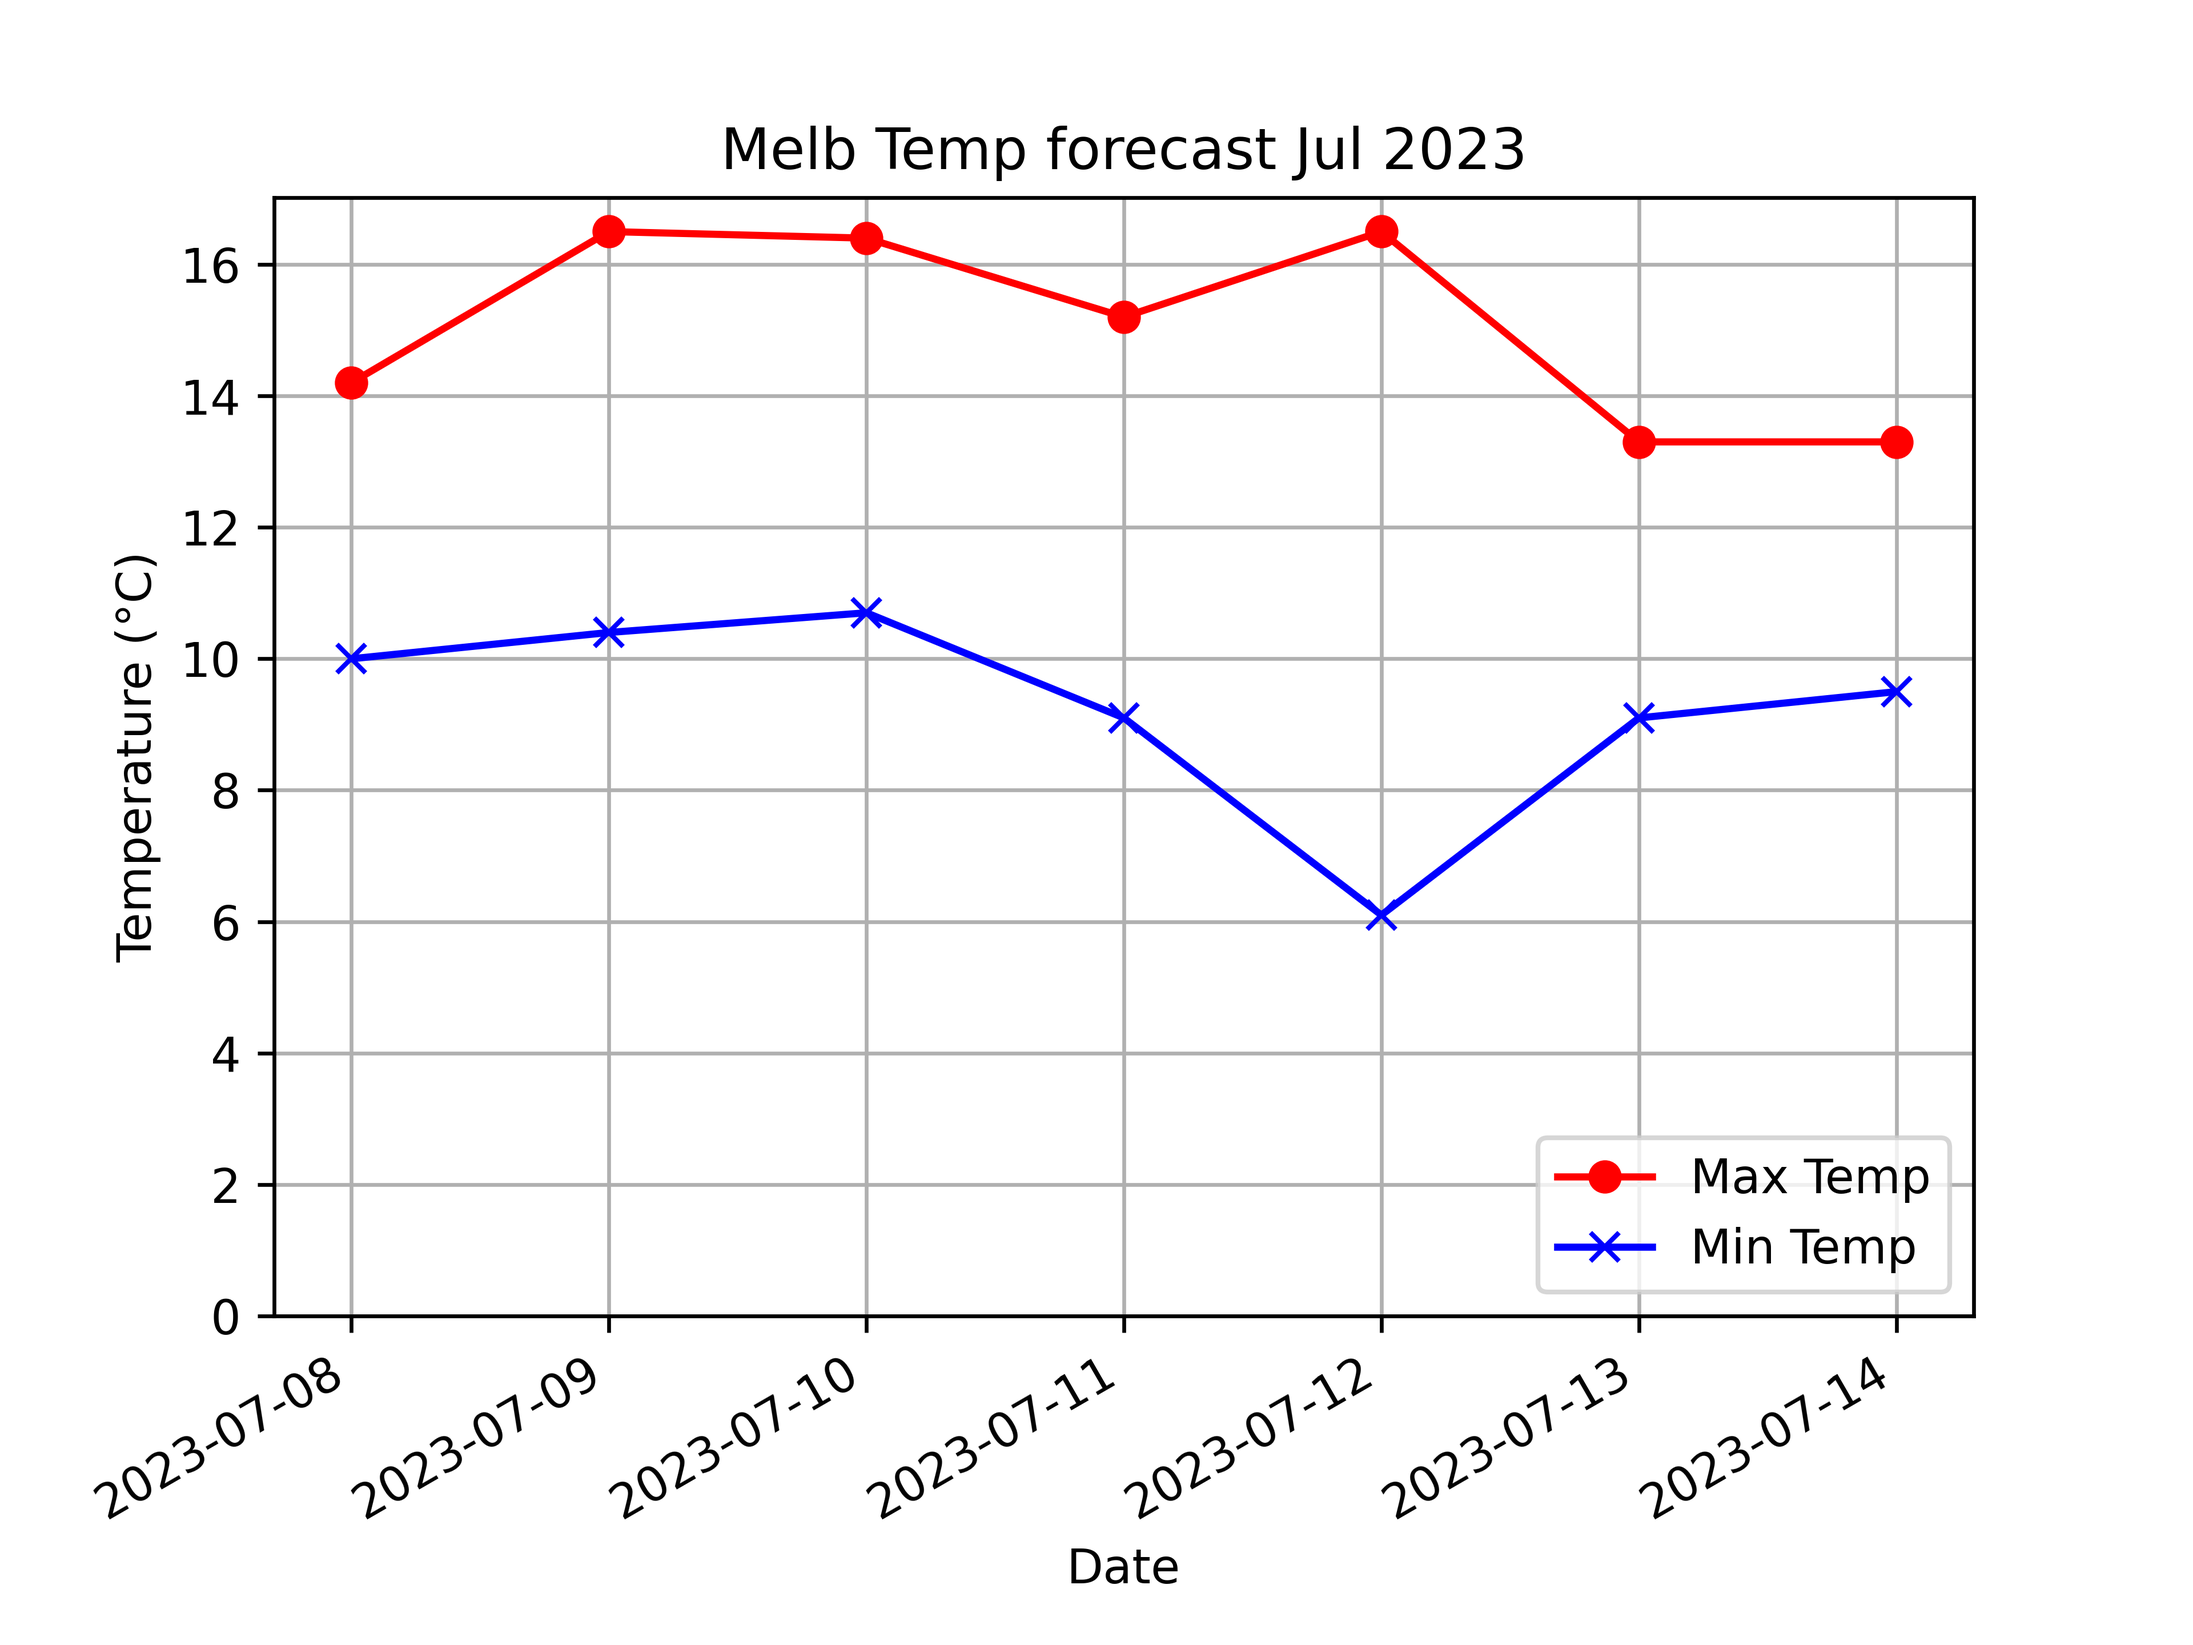
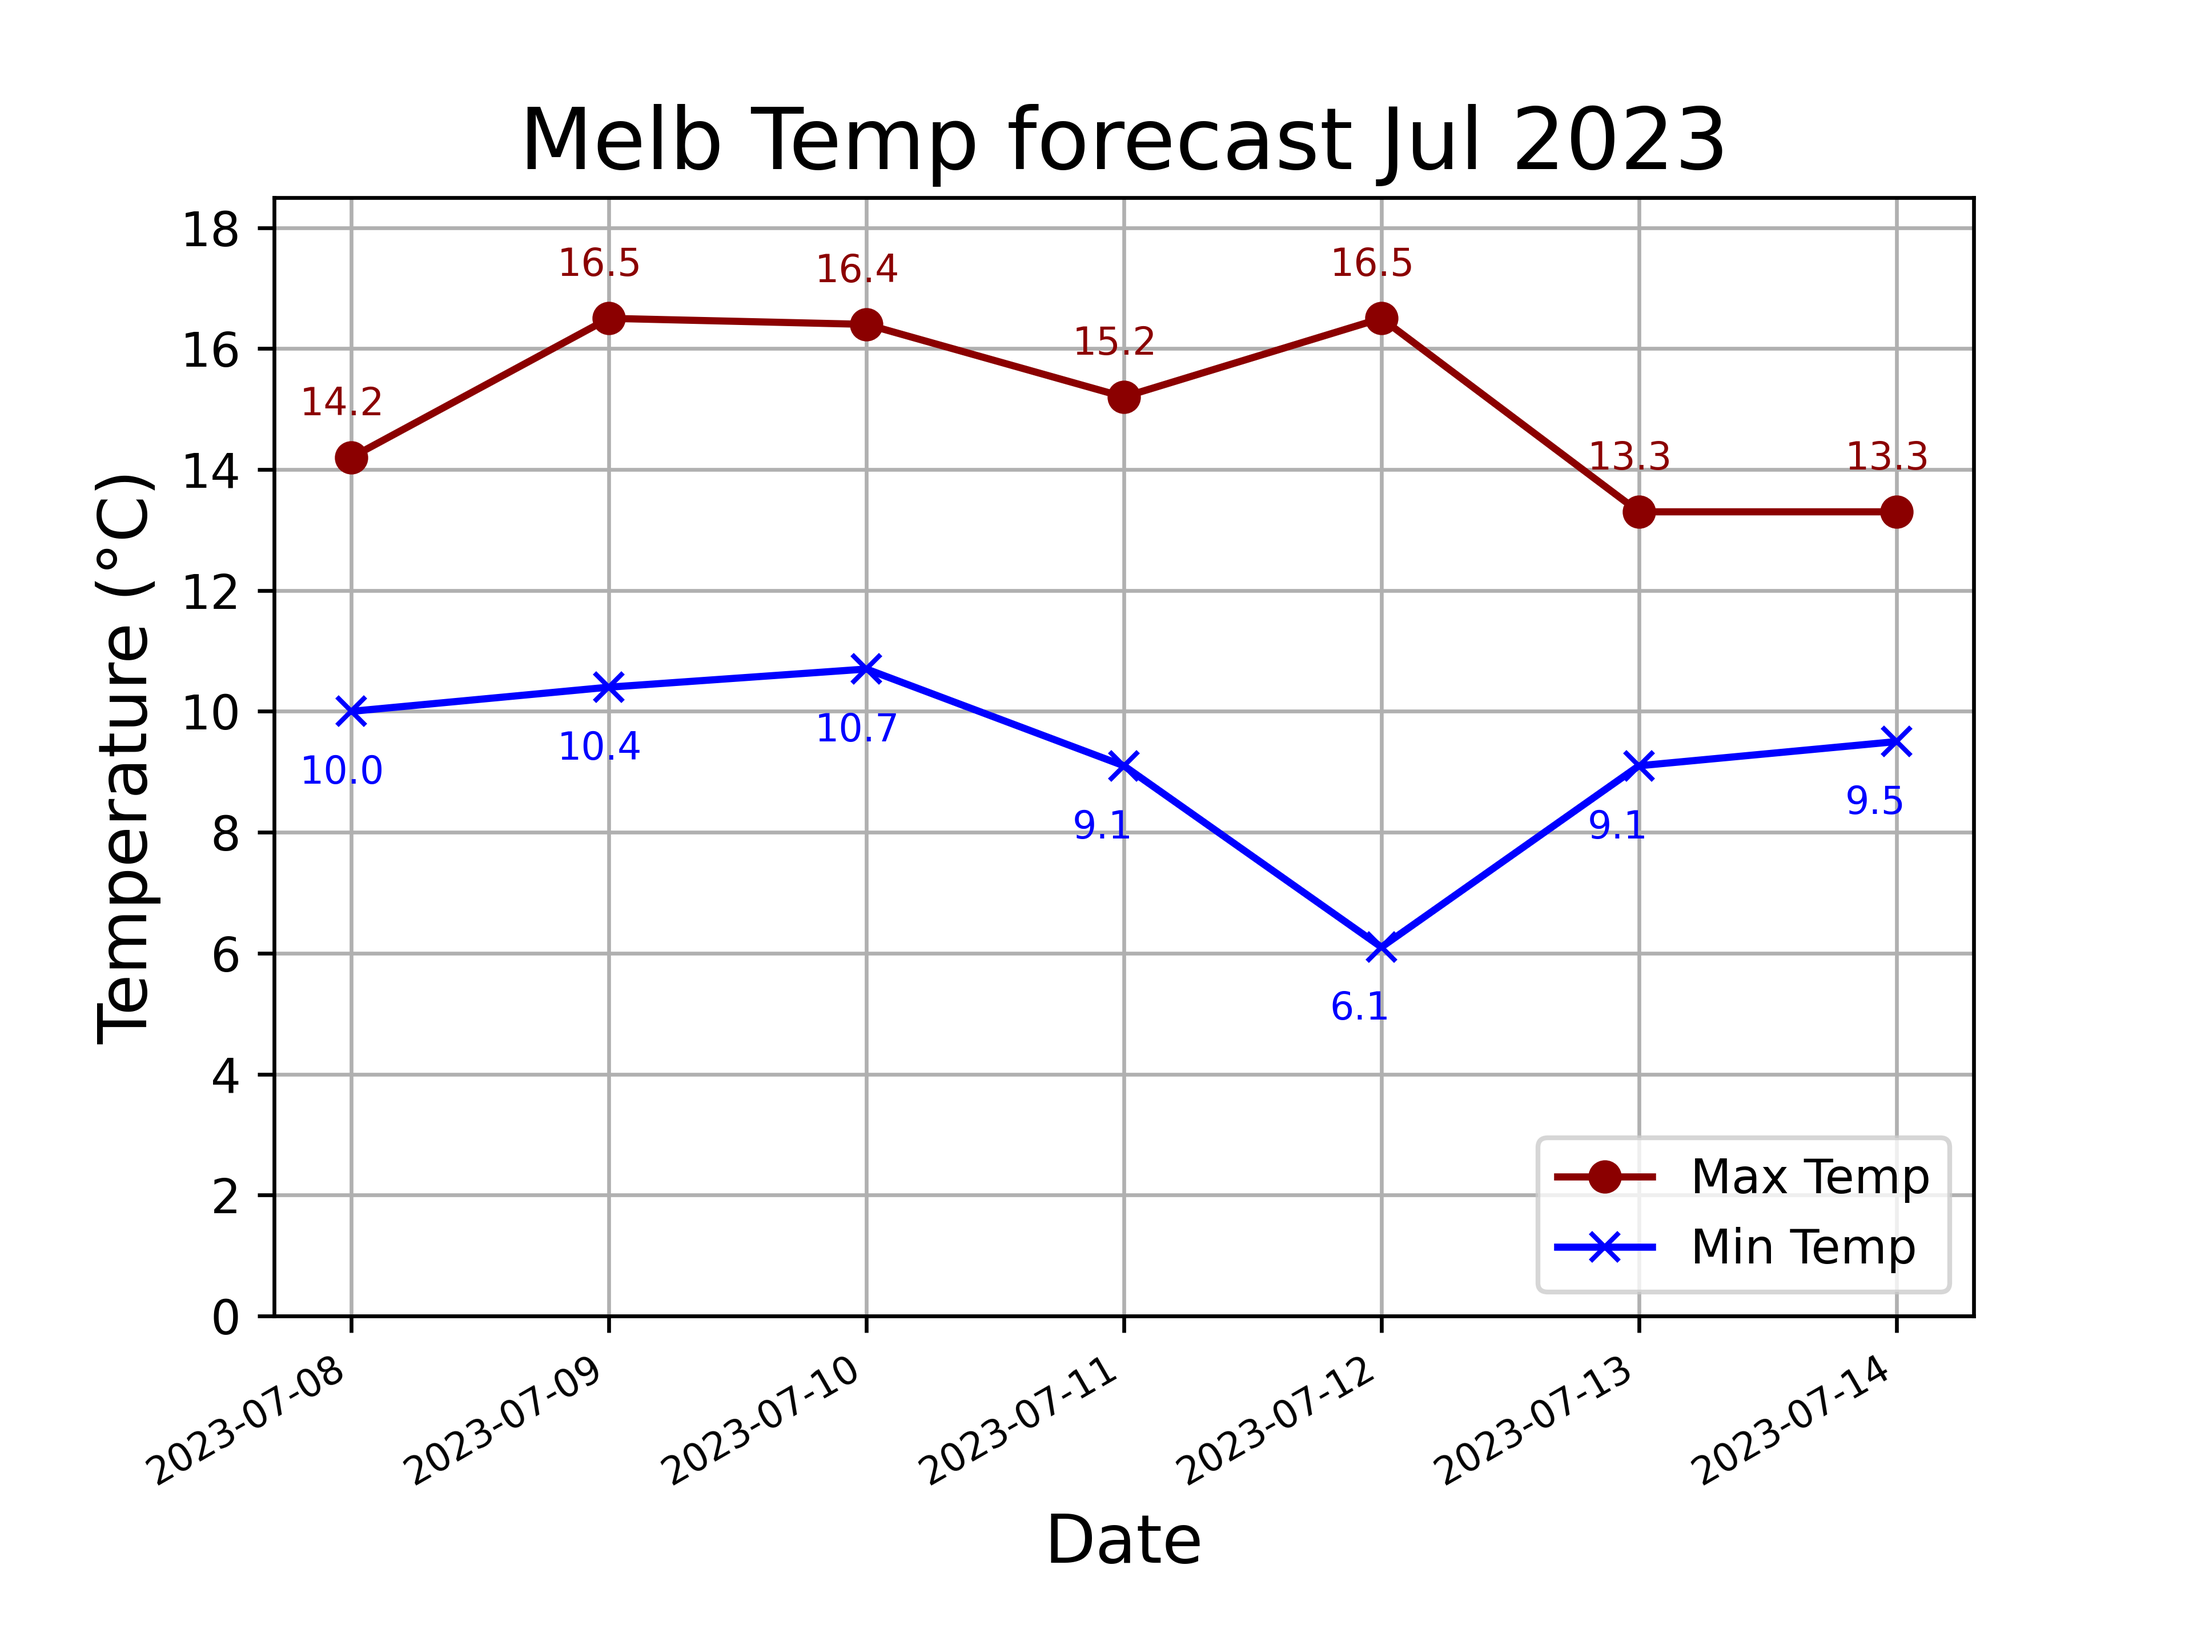
up

diff --git a/docs/matplotlib/files/plot_web_json.py b/docs/matplotlib/files/plot_web_json.py
@@ -46,8 +46,14 @@ def plot_weather_temperatures(title, url):
     # Set the bottom limit of the y-axis to the minimum of 0 and 2 units below the minimum temperature,
     # and set the top limit of the y-axis to 2 units above the maximum temperature
     plt.ylim(bottom=min(0, min(tmin) - 2), top=max(tmax) + 2)
+    # Set the y ticks to be every 2 units
+    ymin = min(0, min(tmin) - 2)
+    ymax = max(tmax) + 2
+    plt.yticks(np.arange(ymin, ymax, 2))
     # format dates so they are angled to fit
     plt.gcf().autofmt_xdate()
+    # Set the font size of the x-axis labels to 10 points
+    plt.tick_params(axis='x', labelsize=8)
     # add a grid
     plt.grid(True)
     # add axis title labels
